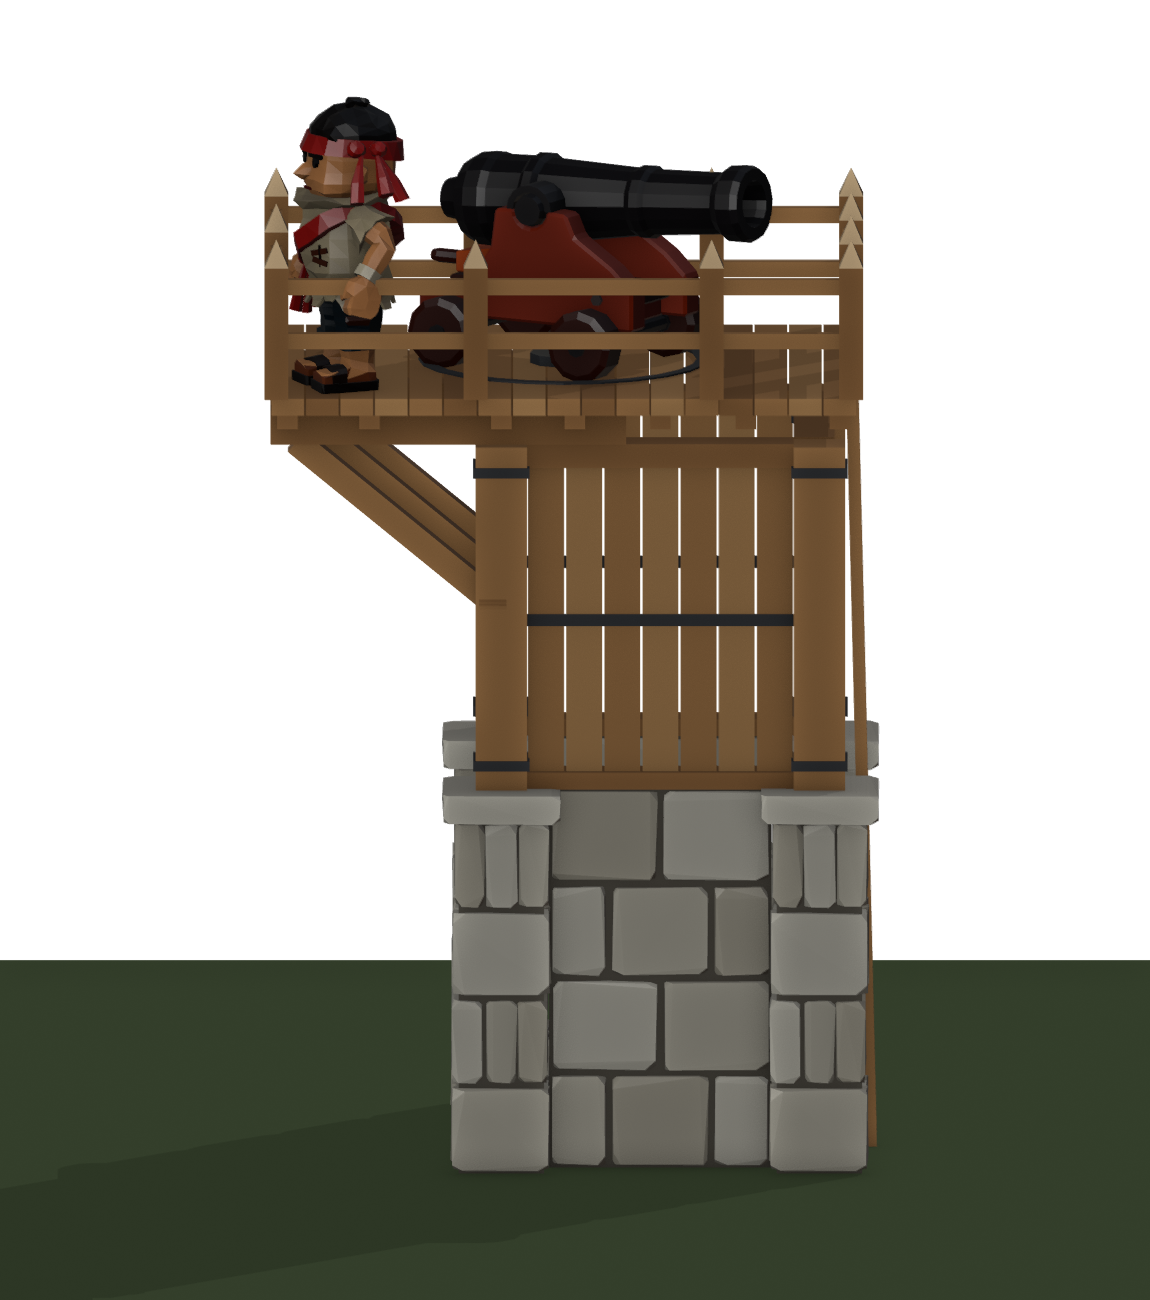
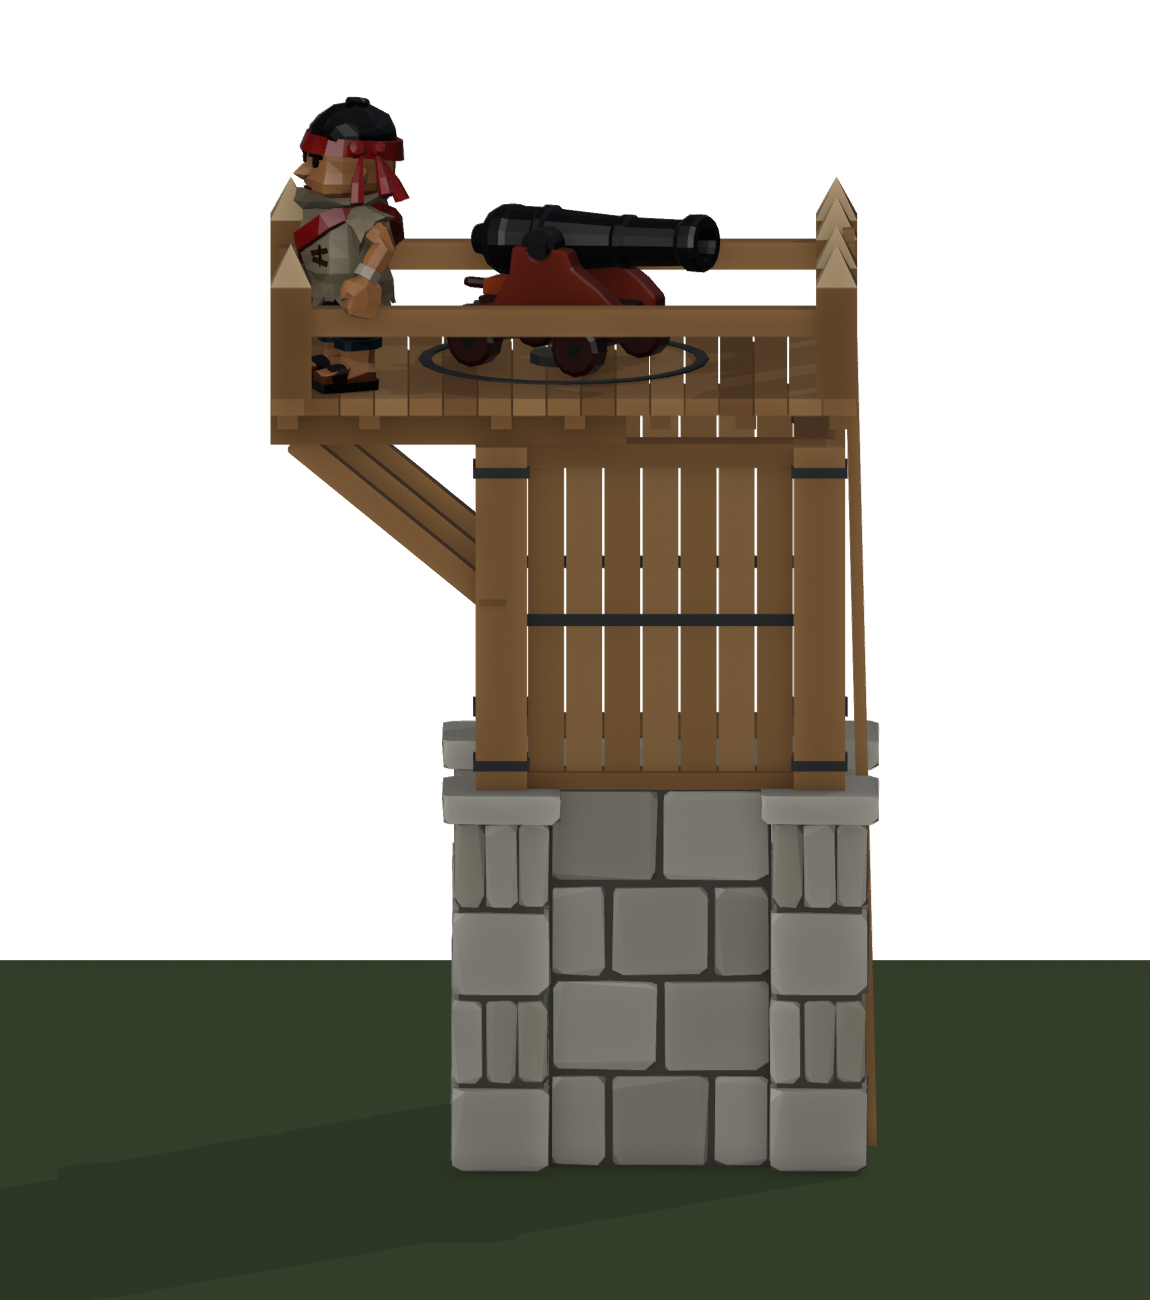
Watchtower level 2: simpler, chunkier rail; cannon at 0.75 scale
Kevin: fewer railing components, bigger for readability; a smaller
cannon. Rail is now six 0.24 m pointed posts (corners and the ladder
gap) and one heavy rail at 0.44 m, top under the barrel. Astra's cannon
is shown and checked at 0.75 scale: carriage sweep 0.69 m inside the
rail, 0.91 / 0.45 m for a gunner fore-aft / sideways.

Claude-Session: https://claude.ai/code/session_016CGLgDxKZuNqnwErxW1EMm

Changed region(s): [[0.213, 0.0923, 0.7609, 0.3077]]

diff --git a/tools/blender/tower_l2_concept.py b/tools/blender/tower_l2_concept.py
@@ -50,7 +50,11 @@ POST=.3
 DECK_X=1.25;DECK_Y0=-1.15;BAY=1.2        # deck: x +-1.25, y from the ladder edge to the bay's end
 DECK_Y1=CORNER+.15+BAY                   # 2.35
 GUN=Vector((0,(DECK_Y0+DECK_Y1)/2,DECK_Z))   # the middle of the bigger deck: (0, 0.6, 4.61)
-RAIL=(.34,.66);RAIL_T=.07                # rail heights above the deck (top under the gun barrel); rail thickness
+RAIL_Z=.44;RAIL_SEC=(.14,.16)            # one chunky rail: centre height above the deck, section (thick, tall)
+RAIL_TOP=RAIL_Z+RAIL_SEC[1]/2              # 0.52: under the gun barrel
+RAIL_T=RAIL_SEC[0]
+POST_SEC=.24                             # rail posts: corners and the ladder gap only
+GUN_SCALE=.75                            # Astra's cannon at three quarters: it fits the tower better
 LADDER_BOTTOM=Vector((0,-1.23,.05));LADDER_TOP=Vector((0,-1.10,DECK_Z))
 LADDER_GAP=.36                           # half-width of the rail's gap at the ladder
 
@@ -141,21 +145,20 @@ def deck(name):
 
 
 def rail(name):
-    """Level 1's open rail, round the bigger deck: pointed posts, two rails,
-    a gap at the ladder."""
-    p=Part(name);zt=DECK_Z;e=RAIL_T/2
-    x0,x1,y0,y1=-DECK_X+e,DECK_X-e,DECK_Y0+e,DECK_Y1-e
-    posts=[(x,y) for x in(x0,x1) for y in(y0,y1)]+[(x,y) for x in(x0,x1) for y in(-.3,CORNER+.15)]+[(-LADDER_GAP-.04,y0),(LADDER_GAP+.04,y0),(0,y1)]
+    """Level 1's open rail, simplified for readability: chunky pointed posts
+    at the four corners and either side of the ladder, one heavy rail."""
+    p=Part(name);zt=DECK_Z;e=RAIL_T/2;h=POST_SEC/2
+    x0,x1,y0,y1=-DECK_X+h,DECK_X-h,DECK_Y0+h,DECK_Y1-h
+    posts=[(x,y) for x in(x0,x1) for y in(y0,y1)]+[(-LADDER_GAP-h,y0),(LADDER_GAP+h,y0)]
+    top=zt+RAIL_TOP+.14
     for x,y in posts:
-        top=zt+RAIL[1]+.12
-        p.box((x,y,(zt+top)/2),(.14,.14,top-zt),'oak_d')
-        p._add([Vector((x-.07,y-.07,top)),Vector((x+.07,y-.07,top)),Vector((x+.07,y+.07,top)),Vector((x-.07,y+.07,top)),Vector((x,y,top+.16))],
+        p.box((x,y,(zt-.1+top)/2),(POST_SEC,POST_SEC,top-zt+.1),'oak_d')
+        p._add([Vector((x-h,y-h,top)),Vector((x+h,y-h,top)),Vector((x+h,y+h,top)),Vector((x-h,y+h,top)),Vector((x,y,top+.24))],
                [(0,1,4),(1,2,4),(2,3,4),(3,0,4),(3,2,1,0)],'oak_tip')
-    for h in RAIL:
-        z=zt+h
-        p.box((x0,(y0+y1)/2,z),(RAIL_T,y1-y0,.09),'oak');p.box((x1,(y0+y1)/2,z),(RAIL_T,y1-y0,.09),'oak')
-        p.box((0,y1,z),(x1-x0,RAIL_T,.09),'oak')
-        for a,b in((x0,-LADDER_GAP),(LADDER_GAP,x1)):p.box(((a+b)/2,y0,z),(b-a,RAIL_T,.09),'oak')
+    z=zt+RAIL_Z;t,hh=RAIL_SEC
+    p.box((x0,(y0+y1)/2,z),(t,y1-y0,hh),'oak');p.box((x1,(y0+y1)/2,z),(t,y1-y0,hh),'oak')
+    p.box((0,y1,z),(x1-x0,t,hh),'oak')
+    for a,b in((x0,-LADDER_GAP-h),(LADDER_GAP+h,x1)):p.box(((a+b)/2,y0,z),(b-a,t,hh),'oak')
     return p
 
 
@@ -199,20 +202,21 @@ def import_ref(f):
 
 def cannon(at=GUN,yaw=0.):
     new=import_ref('cannon.fbx');root=next(o for o in new if o.name.startswith('Cannon_Root'))
-    root.location=at;root.rotation_euler.z=math.radians(yaw);return root,new
+    root.location=at;root.rotation_euler.z=math.radians(yaw);root.scale=(GUN_SCALE,)*3;return root,new
 
 
 def gun_reach(new):
     """Radius of the cannon's footprint below the rail's top (it must turn
     inside the rail), of all of it, and of its breech end."""
     bpy.context.view_layer.update()
-    root=next(o for o in new if o.name.startswith('Cannon_Root'));inv=root.matrix_world.inverted()
+    root=next(o for o in new if o.name.startswith('Cannon_Root'))
+    turn=root.matrix_world.to_quaternion().inverted();at=root.matrix_world.translation   # world metres, the gun's own axes
     low=full=rear=0.
     for o in new:
         if o.type!='MESH':continue
         for v in o.data.vertices:
-            q=inv@(o.matrix_world@v.co);r=math.hypot(q.x,q.y);full=max(full,r)
-            if q.z<RAIL[1]+.05:low=max(low,r)
+            q=turn@(o.matrix_world@v.co-at);r=math.hypot(q.x,q.y);full=max(full,r)
+            if q.z<RAIL_TOP+.05:low=max(low,r)
             if q.y>0:rear=max(rear,q.y)
     return low,full,rear
 

diff --git a/tower-l2-concept/README.md b/tower-l2-concept/README.md
@@ -17,17 +17,21 @@ wide deck on open legs.)
   the middle.
 - **Gun bay:** the deck runs **1.2 m past the back wall**, opposite the ladder, on three outrigger beams and
   knee braces. The deck is now 2.5 × 3.5 m, against level 1's 2.4 × 2.4.
-- **Rail:** the same open rail as level 1, with pointed posts, two rails and a gap at the ladder. It is
-  lower (0.66 m) so the gun barrel clears it.
+- **Rail:** level 1's open rail, simplified for readability (Kevin: *"fewer components ... bigger"*): six
+  chunky pointed posts (0.24 m, at the four corners and either side of the ladder) and **one heavy rail**
+  (0.14 × 0.16 m) at 0.44 m, with its top at 0.52 m, under the gun barrel.
 - **Gun:** an iron traverse ring round a new **`Gun_Pivot` marker at (0, 0.6, 4.61)**, the middle of the
   bigger deck.
 
 ## Room for the cannon (checked by the script against Astra's cannon at `Gun_Pivot`)
 
-- The wheels and carriage sweep **0.92 m** and turn a full circle inside the rail, which is 1.18 m to each
-  side and 1.64 m fore and aft.
-- **Room behind the breech for a gunner:** 0.76 m when firing toward the ladder or the bay, 0.30 m when
-  firing to the sides. The bay adds the room fore and aft; the deck's width is unchanged from level 1.
+- **The cannon is shown at 0.75 scale** (Kevin: *"reduce the canon in size some so it fits better"*). At that
+  size its wheels and carriage sweep **0.69 m** and the whole gun 0.98 m. It turns a full circle inside the
+  rail, which is 1.11 m to each side and 1.57 m fore and aft.
+- **Room behind the breech for a gunner:** 0.91 m when firing toward the ladder or the bay, 0.45 m when
+  firing to the sides.
+- **For the game:** size `WatchtowerGun`'s gun to match, about three quarters of Astra's cannon (its own
+  primitive gun is at scale 1.1 today), or re-run the check at the real size.
 - The ladder comes up at the deck's front edge, far outside the gun's circle.
 
 ## Contract
@@ -38,7 +42,7 @@ wide deck on open legs.)
 | Deck height (`WatchtowerGun.DeckHeight`) | 4.61 m | **same** |
 | `Ladder_Bottom` / `Ladder_Top` / `Lookout_Anchor` | (0,−1.23,0.05) / (0,−1.10,4.61) / (0,0,4.61) | **same** |
 | `Gun_Pivot` | none | **(0, 0.6, 4.61)**, new |
-| Overall height (`BuildPlan` `ridge`) | 5.37 m | 5.67 m (rail post points) |
+| Overall height (`BuildPlan` `ridge`) | 5.37 m | 5.51 m (rail post points) |
 | Above the plot | none | the bay overhangs to y +2.32 m at the deck |
 
 **For the game:** `WatchtowerGun` puts its gun at the tower's origin, which is (0, 0) on the deck. At level 2
@@ -47,7 +51,7 @@ bay doesn't add the room it was made for. When the tower snaps onto a wall, the 
 ladder, which is out of camp (the ladder side is the camp side).
 
 Root `Watchtower_Level_2`; meshes `TowerL2_Pillars`, `_Stone`, `_Timber`, `_Deck`, `_Rail`, `_Ladder`.
-6,690 triangles, most of them the crude stones.
+6,540 triangles, most of them the crude stones.
 
 ## Files
 
@@ -56,7 +60,7 @@ Root `Watchtower_Level_2`; meshes `TowerL2_Pillars`, `_Stone`, `_Timber`, `_Deck
 | `watchtower-lvl2.fbx` | The tower and its four markers (no cannon: the game builds its own) |
 | `tower-l2-hero.png`, `tower-l2-front.png`, `tower-l2-side.png`, `tower-l2-rear.png` | With Astra's cannon and the deckhand for scale |
 | `tower-l2-deck.png`, `tower-l2-top.png` | The deck; from above with the gun's reach drawn: red = wheels, gold = muzzle |
-| `tower-l2-traverse.gif` | The cannon turning a full circle at `Gun_Pivot` |
+| `tower-l2-traverse.gif` | The cannon (0.75 scale) turning a full circle at `Gun_Pivot` |
 | `tower-l1-vs-l2.png` | The level 1 tower (left, its texture colours approximated) and level 2, same camera |
 
 Not done yet: a game importer (`TowerL2Import`, like `TowerL1Import`), colliders, rail limits in the

diff --git a/LEVEL2-CHECKLIST.md b/LEVEL2-CHECKLIST.md
@@ -86,14 +86,17 @@ Revised on request: *essentially level 1's tower, half stone, a small extension 
 - [x] Level 1's closed box on the same 2.6 × 2.6 m plot. Lower half the wall's crude stone (corner pillars
       and walls, to 2.25 m), upper half oak posts and plank walls, the same open rail with pointed posts.
 - [x] **Gun bay:** the deck runs 1.2 m past the back wall (opposite the ladder) on outriggers and knee
-      braces. Deck 2.5 × 3.5 m. Rail lowered to 0.66 m so the gun barrel clears it.
-- [x] Checked against Astra's cannon at the new **`Gun_Pivot` (0, 0.6, 4.61)**: it turns a full circle inside
-      the rail. Gunner room behind the breech is 0.76 m fore and aft, 0.30 m to the sides.
+      braces. Deck 2.5 × 3.5 m.
+- [x] Rail simplified for readability: six chunky posts and one heavy rail (top 0.52 m, under the barrel).
+- [x] Checked against Astra's cannon **at 0.75 scale** (Kevin: smaller) at the new **`Gun_Pivot`
+      (0, 0.6, 4.61)**: it turns a full circle inside the rail. Gunner room behind the breech is 0.91 m fore
+      and aft, 0.45 m to the sides.
 - [x] Deck 4.61 m and `Ladder_Bottom`, `Ladder_Top`, `Lookout_Anchor` unchanged.
 - [ ] Unity: **`WatchtowerGun` must place its gun at `Gun_Pivot`**, not the tower's origin, or the bay
       doesn't help.
-- [ ] Unity: overall height **5.67 m** (was 5.37): update `BuildPlan` `ridge` for level 2. The bay overhangs
-      the plot at deck height (y to +2.32).
+- [ ] Unity: size the tower gun to about 0.75 of Astra's cannon.
+- [ ] Unity: overall height **5.51 m** (was 5.37): update `BuildPlan` `ridge` for level 2. The bay overhangs
+      the plot at deck height (y to +2.28).
 - [ ] Unity: check that `WatchtowerGun`'s primitive gun (scale 1.1) fits the same circle. Importer, colliders,
       rail limits.
 
